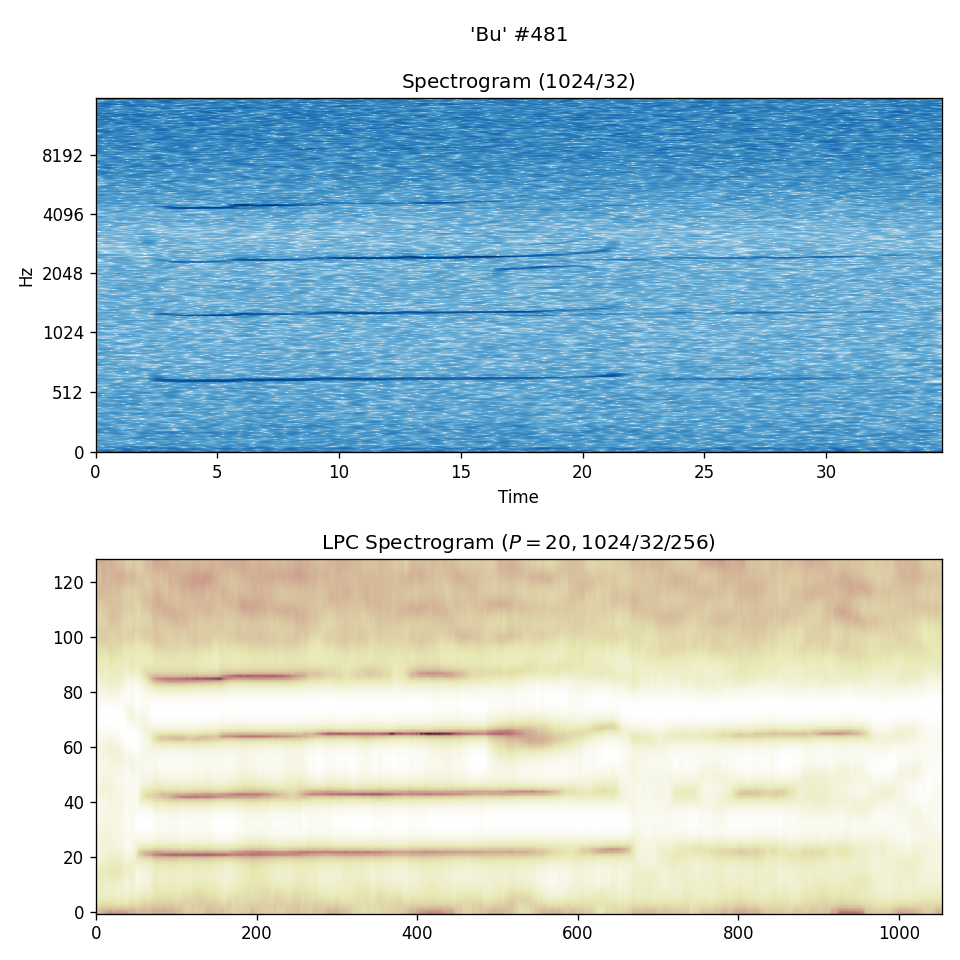
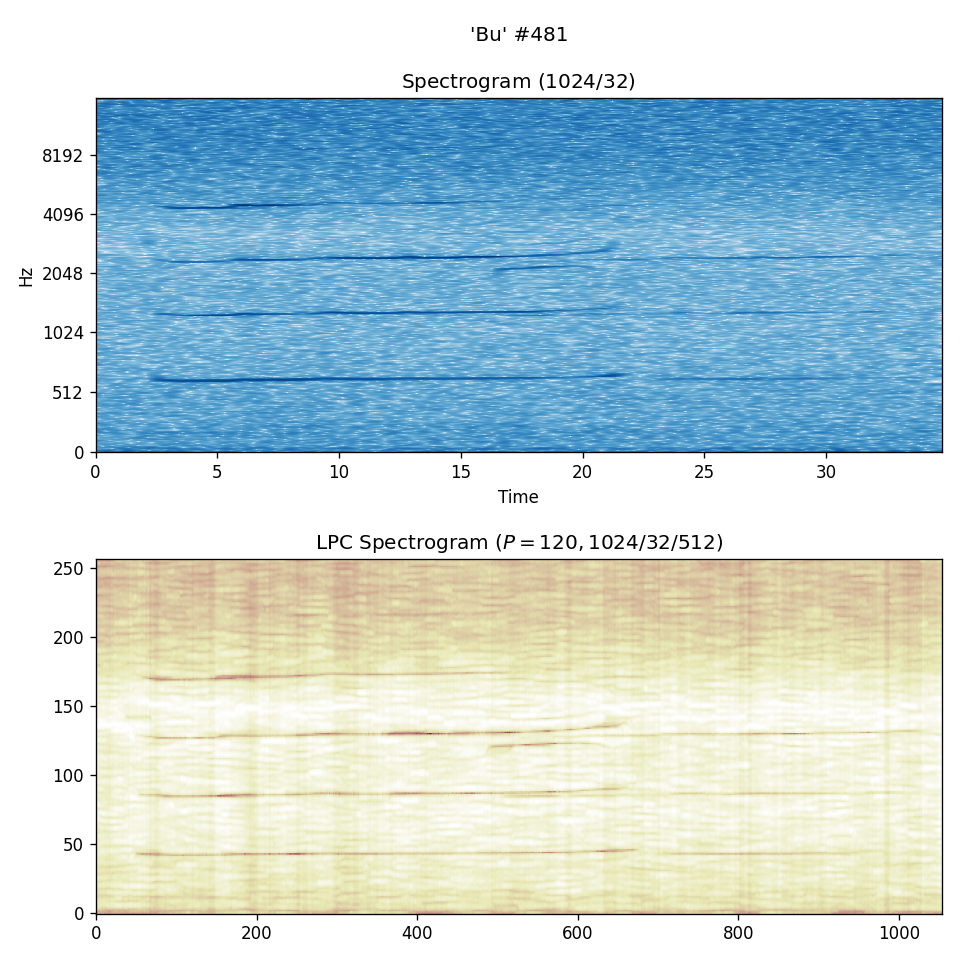
replot selection with --lpc 120

diff --git a/signal-inspection/README.md b/signal-inspection/README.md
@@ -1,4 +1,12 @@
-A DFT/LPC pair of spectrograms per class, selected arbitrarily:
+<blockquote>
+local prep:
+
+    PATH=/usr/local/Cellar/python@3.8/3.8.6_1/bin:$PATH
+    PATH=../../ecoz2/ecoz2/src/py:$PATH
+
+</blockquote>
+
+### A DFT/LPC pair of spectrograms per class, selected arbitrarily:
 
     sgn.plot.spec.py \
       --signal ../MARS_20161221_000046_SongSession_16kHz_HPF5Hz.wav \
@@ -6,10 +14,10 @@ A DFT/LPC pair of spectrograms per class, selected arbitrarily:
       --selection 1 3 22 43 50 55 65 108 179 180 188 268 274 477 481 660 681 909 1011 1208 1477 1951 2424 \
       --window-size 1024 \
       --window-offset 32 \
-      --lpc 20 \
+      --lpc 120 \
       --lpc-window-size 1024 \
       --lpc-window-offset 32 \
-      --lpc-num-points-per-window 256 \
+      --lpc-num-points-per-window 512 \
       --no-plot \
       --out-prefix=spectrograms/arbitrary-selection/
 
